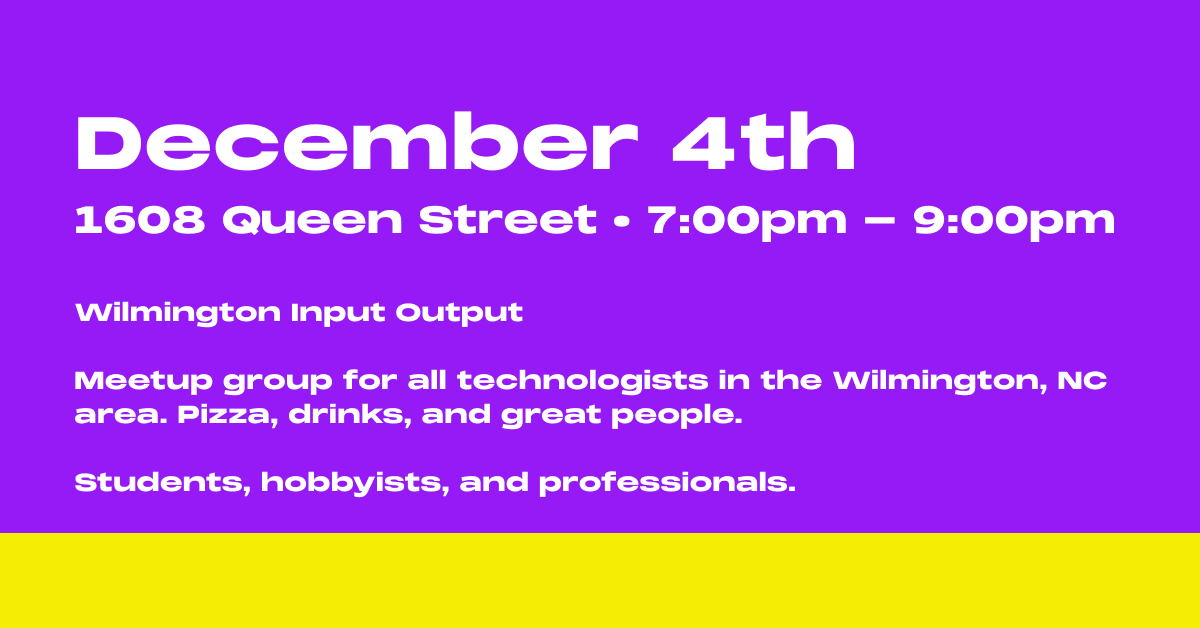
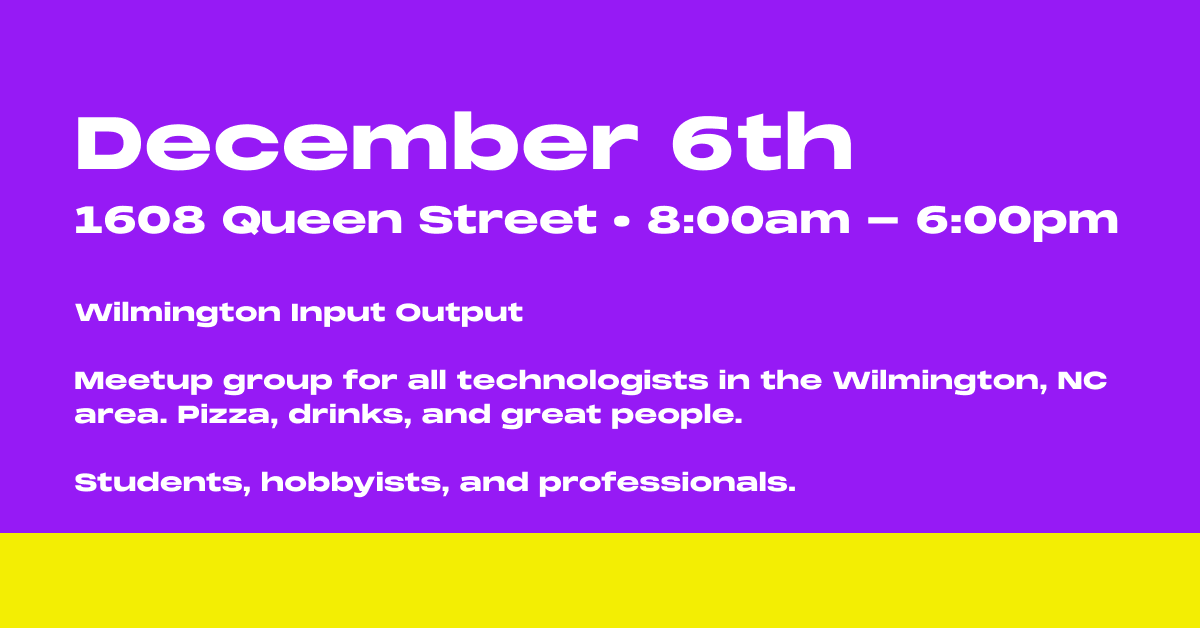
Added dec 6 event

Changed region(s): [[0.555, 0.1815, 0.7092, 0.2723], [0.5242, 0.3328, 0.7092, 0.3933], [0.74, 0.3328, 0.925, 0.3933]]

diff --git a/src/index.html b/src/index.html
@@ -39,7 +39,7 @@
             >
         </header>
         <h1>Wilmington<br />Input Output</h1>
-        <a target="_blank" rel="noopener noreferrer" href="https://www.eventbrite.com/e/social-hangout-discussing-2025-tech-tickets-1080900866589?aff=ebdsoporgprofile" class="cta" title="Attend!">
+        <a target="_blank" rel="noopener noreferrer" href="https://www.eventbrite.com/e/free-coworking-friday-tickets-1105585920249?aff=ebdsoporgprofile" class="cta" title="Attend!">
             <span>Attend</span>
             <span><svg xmlns="http://www.w3.org/2000/svg" width="32" height="32" fill="#000000" viewBox="0 0 256 256"><path d="M128,24A104,104,0,1,0,232,128,104.11,104.11,0,0,0,128,24Zm0,192a88,88,0,1,1,88-88A88.1,88.1,0,0,1,128,216Zm45.66-93.66a8,8,0,0,1,0,11.32l-32,32a8,8,0,0,1-11.32-11.32L148.69,136H88a8,8,0,0,1,0-16h60.69l-18.35-18.34a8,8,0,0,1,11.32-11.32Z"></path></svg></span>
         </a>
@@ -60,7 +60,7 @@
         <div class="cards">
             <div>
                 <h3>Past Events</h3>
-                <span>84+</span>
+                <span>85+</span>
             </div>
             <div>
                 <h3>Unique Attendees</h3>
@@ -68,8 +68,8 @@
             </div>
             <div>
                 <h3>when</h3>
-                <span>Dec 4th</span>
-                <sub>7:00 PM - 9:00 PM</sub>
+                <span>Dec 6th</span>
+                <sub>8:00 AM - 6:00 PM</sub>
             </div>
             <div>
                 <h3>where</h3>
